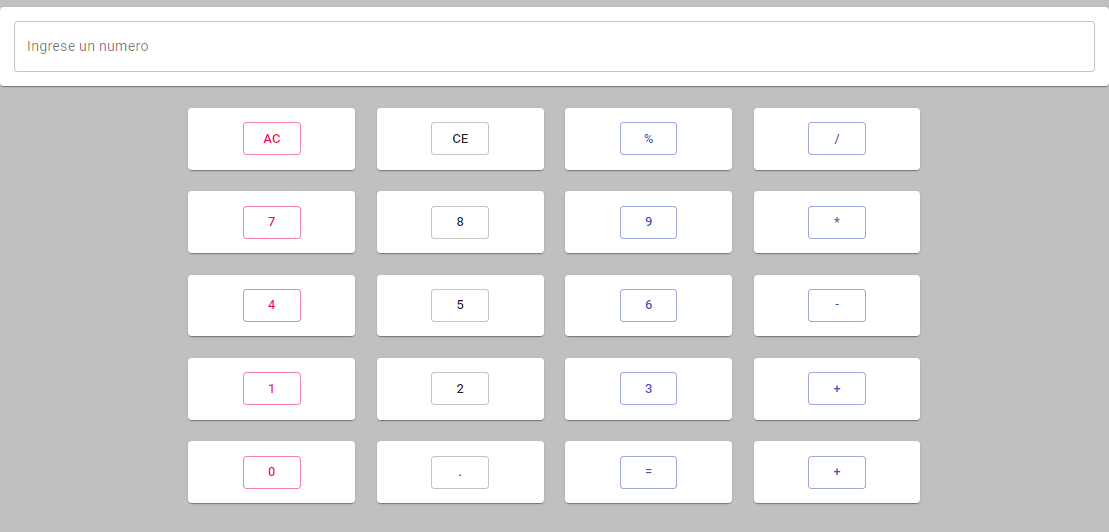
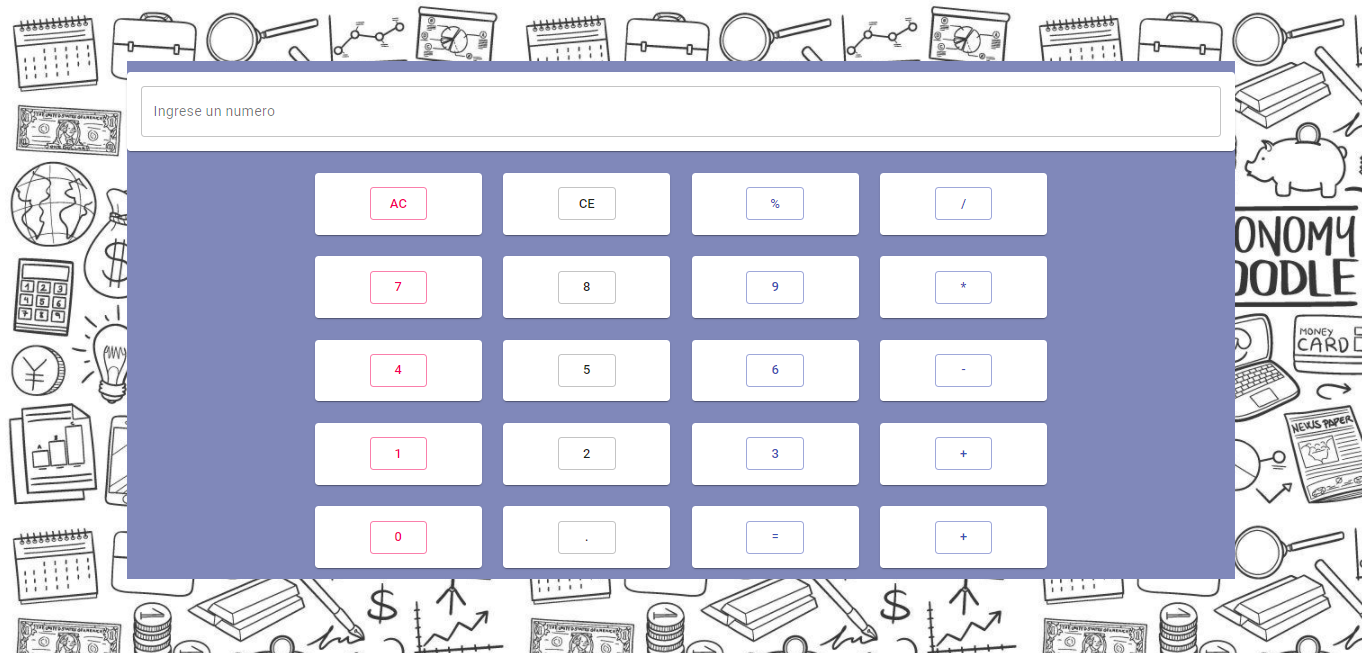
carga7

diff --git a/src/App.js b/src/App.js
@@ -32,7 +32,7 @@ function App() {
     <React.Fragment>
       <CssBaseline />
       <Container fixed className={classes.altura}>
-        <Typography component="div" style={{ backgroundColor: '#c0c0c0', height: '100vh' }} >
+        <Typography component="div" style={{ backgroundColor: '#8088BA', height: '100' }} >
           <div className={classes.root}>
             <Grid container spacing={3}>
               <Grid item xs={12}>

diff --git a/public/index.html b/public/index.html
@@ -27,7 +27,7 @@
     <link rel="stylesheet" href="https://fonts.googleapis.com/css?family=Roboto:300,400,500,700&display=swap" />
     <title>React App</title>
   </head>
-  <body>
+  <body background="fondo2.jpg">
     <noscript>You need to enable JavaScript to run this app.</noscript>
     <div id="root"></div>
     <!--

diff --git a/README.md b/README.md
@@ -38,4 +38,4 @@ Para la instalación se utilizaron los siguientes comandos ya sea en la cmd o en
 <img src="public/calculadora.png" width="100%"  height= "100%" /> 
 
 ---
-⌨ con ❤ por [Laura Daniela Tovarr](https://github.com/Daniela1402) 😊
+⌨ con ❤ por [Laura Daniela Tovar](https://github.com/Daniela1402) 😊
